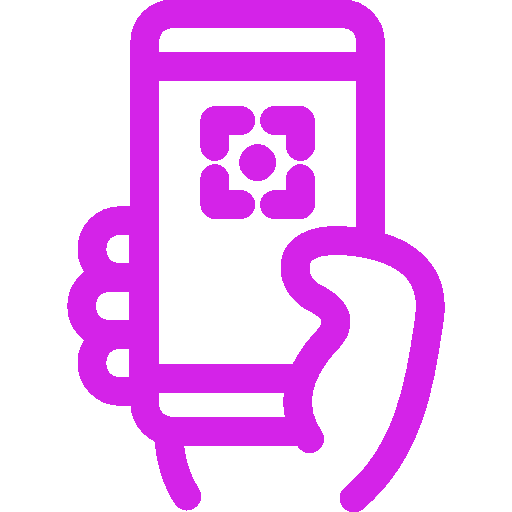
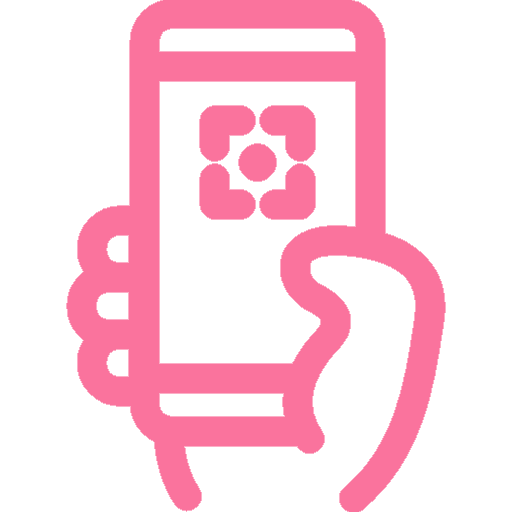
fix theme and cam component

diff --git a/client/app/config/colors.js b/client/app/config/colors.js
@@ -4,9 +4,9 @@ export default {
   "color-primary-300": "#FFB8CE",
   "color-primary-400": "#FE94B4",
   "color-primary-500": "#FA739D",
-  "color-primary-600": "#DA72FF",
-  "color-primary-700": "#3D0056",
-  "color-primary-800": "#FB74E2",
+  "color-primary-600": "#FB74E2",
+  "color-primary-700": "#DA72FF",
+  "color-primary-800": "#3D0056",
   "color-primary-900": "#2A0056",
   "color-basic-100": "#FFFFFF",
   "color-basic-200": "#F7F9FC",

diff --git a/client/app/components/Camera.js b/client/app/components/Camera.js
@@ -70,7 +70,6 @@ const styles = StyleSheet.create({
   container: {
     flex: 1,
     justifyContent: "center",
-    alignItems: "center",
     aspectRatio: 3 / 4,
   },
   camera: {
